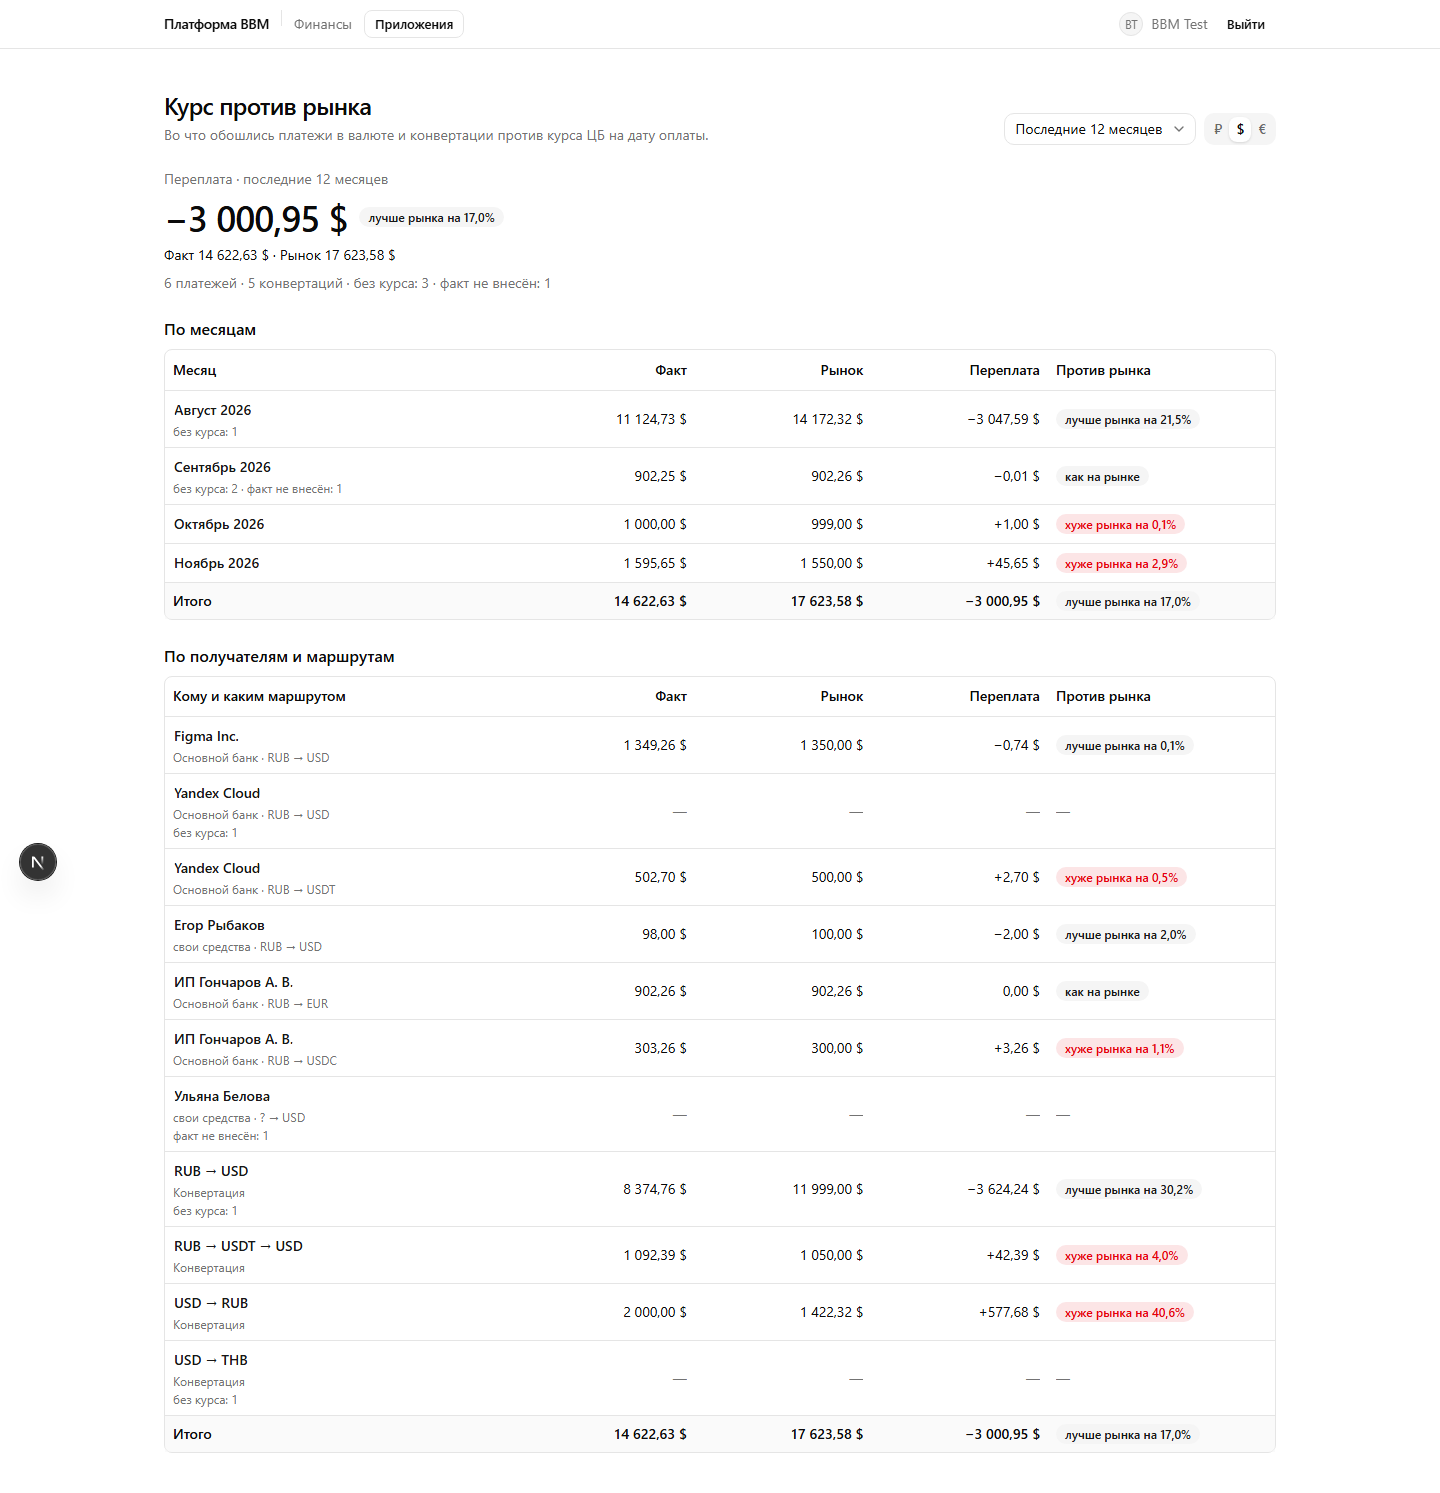
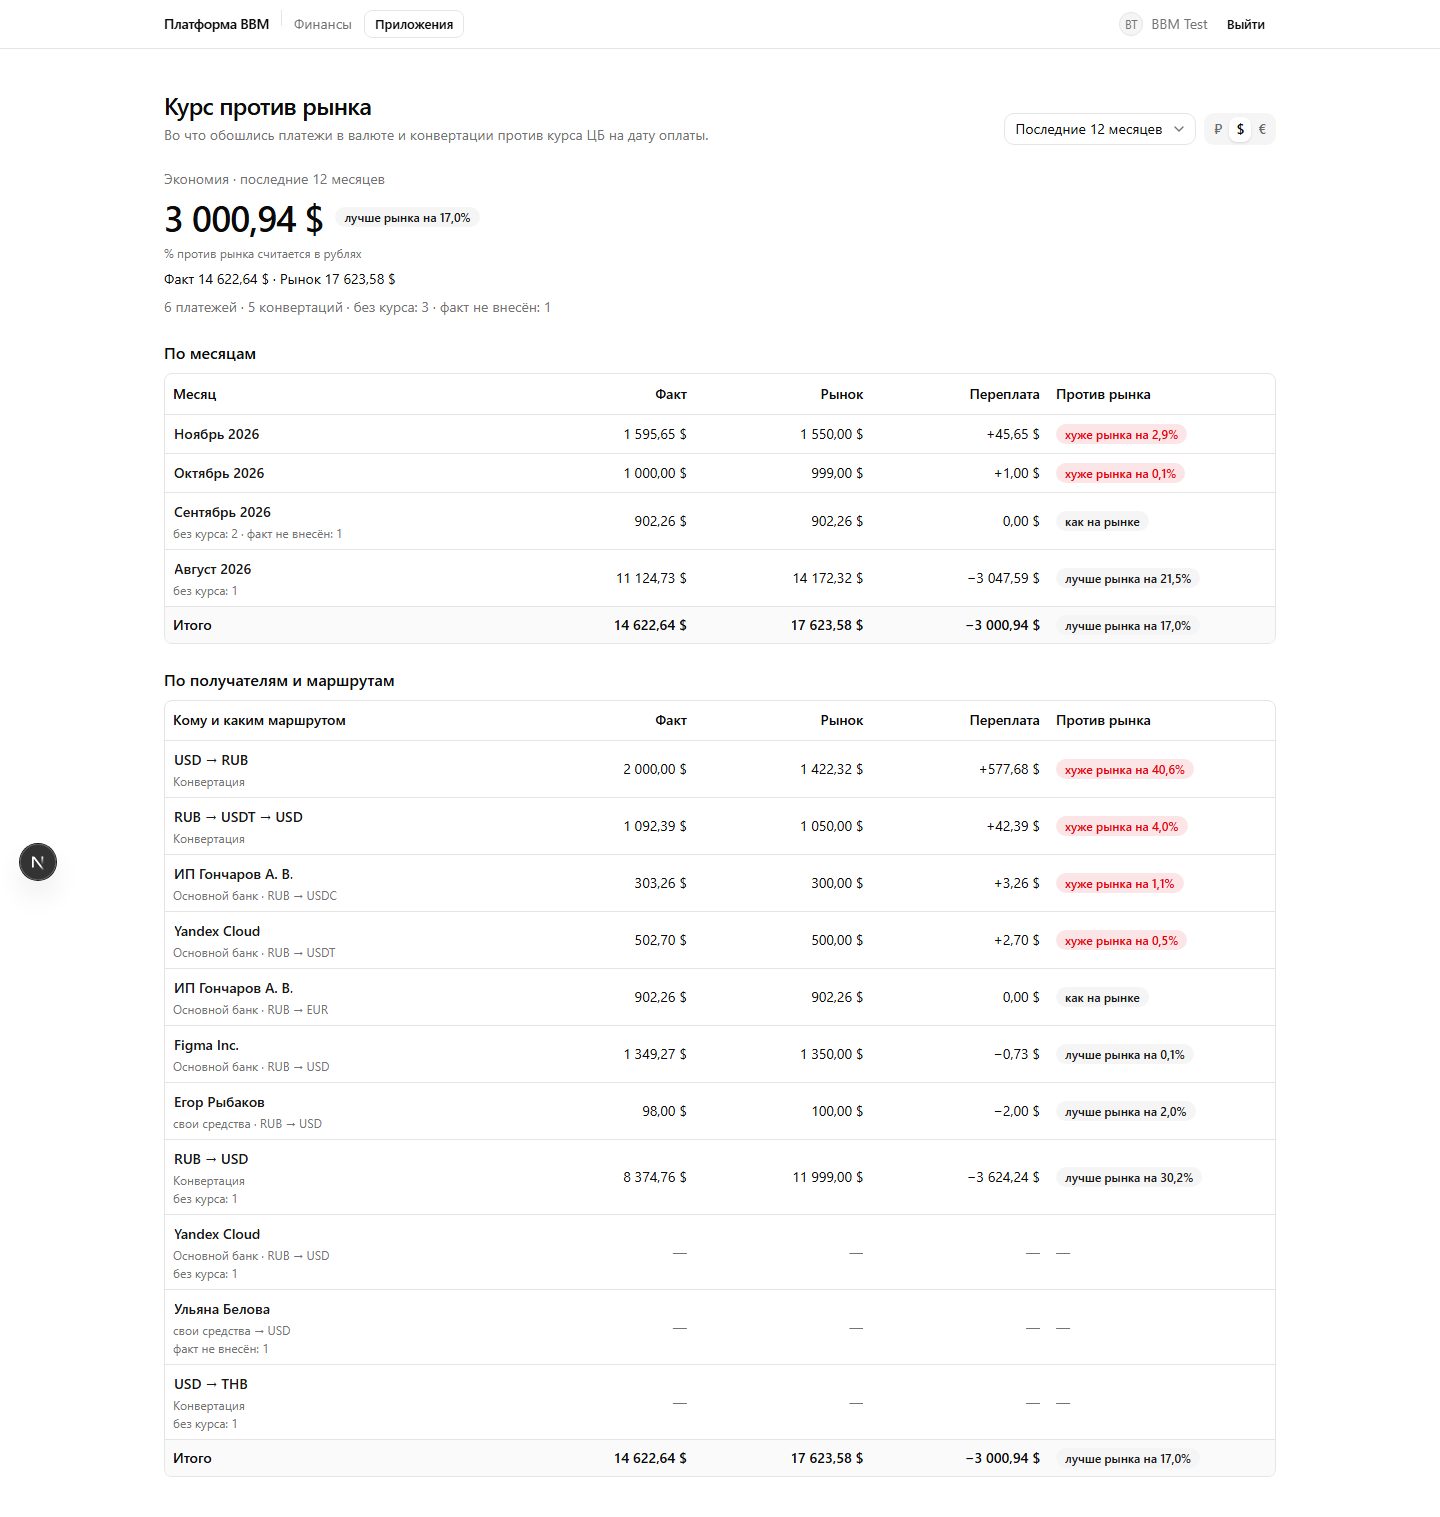
docs(evidence): #559 re-captured after the #563 review — Экономия, % hint, order, «—» sums, side panel, not-measured row
Claude-Session: https://claude.ai/code/session_01BCe8sBebYyhQncmry5GLEx

diff --git a/docs/evidence/559/capture.ts b/docs/evidence/559/capture.ts
@@ -124,6 +124,27 @@ await matrix(page, '04-chain-route-opened', async () => {
 })
 await page.keyboard.press('Escape')
 
+// A row with nothing measured opened: its route alone, no «Переплата 0,00 ₽ · —» (review of #563).
+await matrix(page, '08-not-posted-row-opened', async () => {
+  if ((await page.getByRole('dialog').count()) === 0) {
+    await page
+      .getByRole('region', { name: 'По получателям и маршрутам' })
+      .getByRole('row')
+      .filter({ hasText: 'факт не внесён' })
+      .getByRole('button')
+      .first()
+      .click()
+    await page.getByRole('dialog').waitFor()
+  }
+})
+findings.push(
+  `not-measured row sheet description: ${await page
+    .getByRole('dialog')
+    .locator('[data-slot="sheet-description"]')
+    .innerText()}`,
+)
+await page.keyboard.press('Escape')
+
 // ₽ → $: amounts change, the % does not (EARS-566).
 const wordings = async () => page.locator('[data-slot="badge"]').allInnerTexts()
 const rubWordings = await wordings()

diff --git a/docs/evidence/559/README.md b/docs/evidence/559/README.md
@@ -1,6 +1,8 @@
 # #559 — «Курс против рынка» on `/p/finance/reports/market-rate`: live-stand evidence
 
-Captured 2026-11-18 by `capture.ts` (in this folder) against the session's own
+Captured 2026-11-18 by `capture.ts`, re-captured the same day after the review
+of #563 (branch DB dropped and rebuilt, `stand-559.ts` re-run, then
+`reverse-november.ts` for frame 07) (in this folder) against the session's own
 dev stand: worktree `.claude/worktrees/559`, `PORT=3000 pnpm dev`, branch DB
 `platform_559`, signed in through the real dev Zitadel as `bbm-test`. The
 password was read from a scratch file into the process env, never into a tool
@@ -27,17 +29,27 @@ call.
 
 Frames (1440×900 and 390×844, full page; viewport-only while a sheet is open):
 
-| Frame                    | Shows                                                                                                          |
-| ------------------------ | -------------------------------------------------------------------------------------------------------------- |
-| `01-finance-header-link` | «Курс против рынка» beside «Заявки» on `/p/finance`                                                            |
-| `02-default-12m-rub`     | default period (last 12 months), ₽: total, wording, Факт / Рынок, counts; both tables with «Итого» = the total |
-| `03-november-opened`     | the November month row opened: each payment links to its request; chain with its route                         |
-| `04-chain-route-opened`  | the «RUB → USDT → USD» route row opened                                                                        |
-| `05-default-12m-usd`     | the same in $: every amount changes, every % is the same                                                       |
-| `06-this-month`          | «Этот месяц»                                                                                                   |
-| `07-empty-month`         | «Этот месяц» after `reverse-november.ts` reversed the month's operations — an empty period                     |
+| Frame                      | Shows                                                                                                          |
+| -------------------------- | -------------------------------------------------------------------------------------------------------------- |
+| `01-finance-header-link`   | «Курс против рынка» beside «Заявки» on `/p/finance`                                                            |
+| `02-default-12m-rub`       | default period (last 12 months), ₽: total, wording, Факт / Рынок, counts; both tables with «Итого» = the total |
+| `03-november-opened`       | the November month row opened: each payment links to its request; chain with its route                         |
+| `04-chain-route-opened`    | the «RUB → USDT → USD» route row opened                                                                        |
+| `05-default-12m-usd`       | the same in $: every amount changes, every % is the same                                                       |
+| `06-this-month`            | «Этот месяц»                                                                                                   |
+| `08-not-posted-row-opened` | a row with nothing measured opened: described by its route alone («свои средства → USD»), no Переплата         |
+| `07-empty-month`           | «Этот месяц» after `reverse-november.ts` reversed the month's operations — an empty period                     |
 
 `findings.txt` / `findings-empty.txt`: the totals per period and currency as read
 off the page, that the badges are identical after ₽ → $, that choosing € here
 shows € on the requests queue (one remembered choice), and no frame scrolls the
 page sideways at 390 px.
+
+**After the #563 review.** Factual changes visible in the frames: a negative
+total reads «Экономия» with the amount unsigned; in $ / € a muted «% против
+рынка считается в рублях» sits under the headline; months run newest first and
+payees / routes by Переплата, unmeasured rows last; the EUR payment exactly at
+the market reads 0,00 $ in both tables (Факт = Рынок + Переплата — so the $
+Факт total is 14 622,64 $, one cent off round(Σ Факт), the documented price);
+the side panel is wider, amounts never break, its column is «Операция»; an empty
+period shows «—» in the headline, Факт / Рынок and every «Итого».
